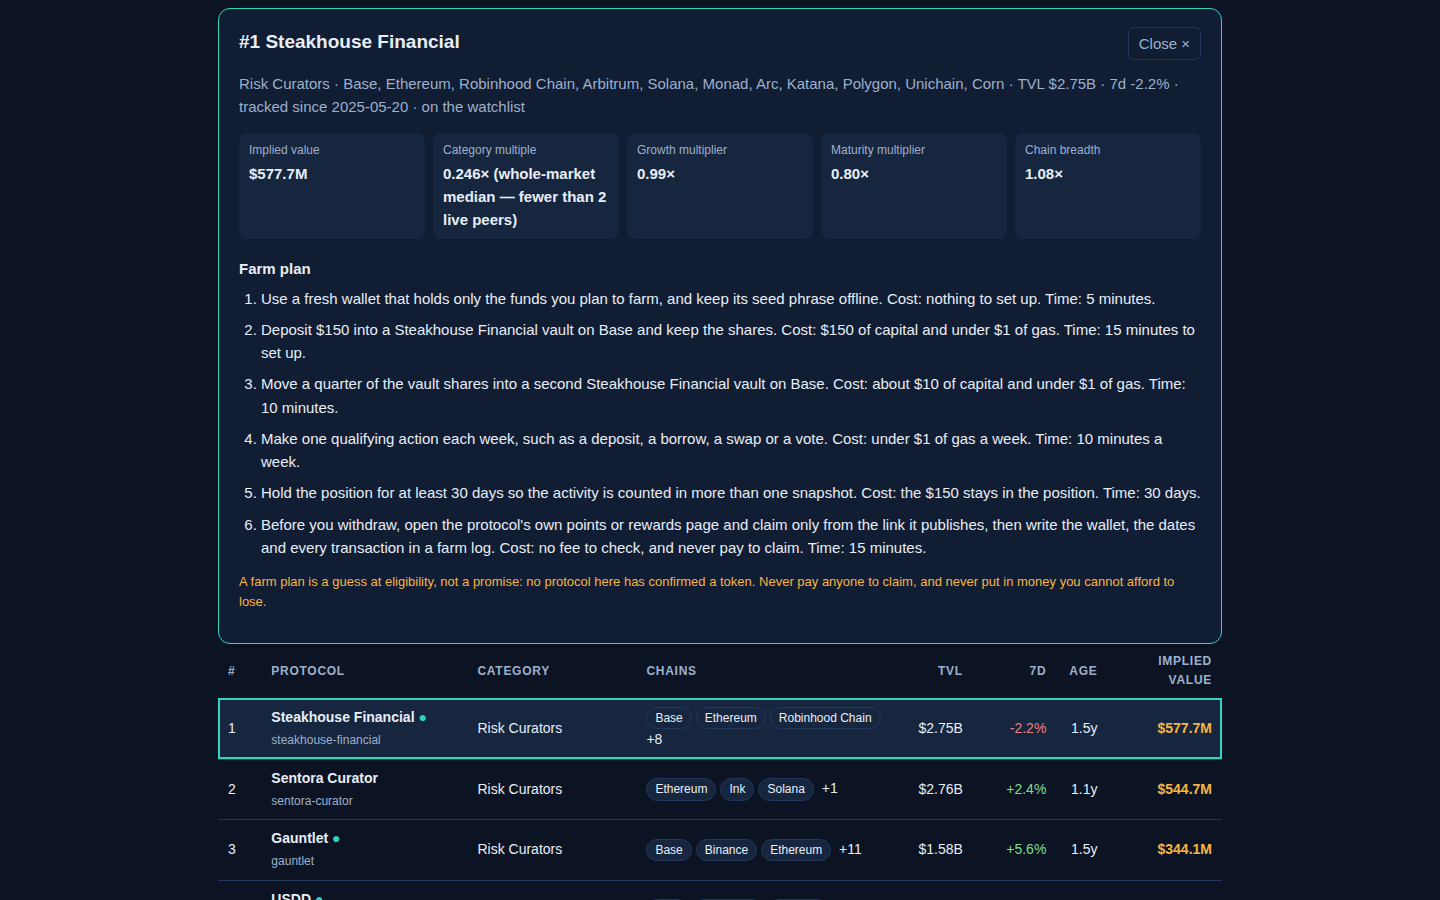
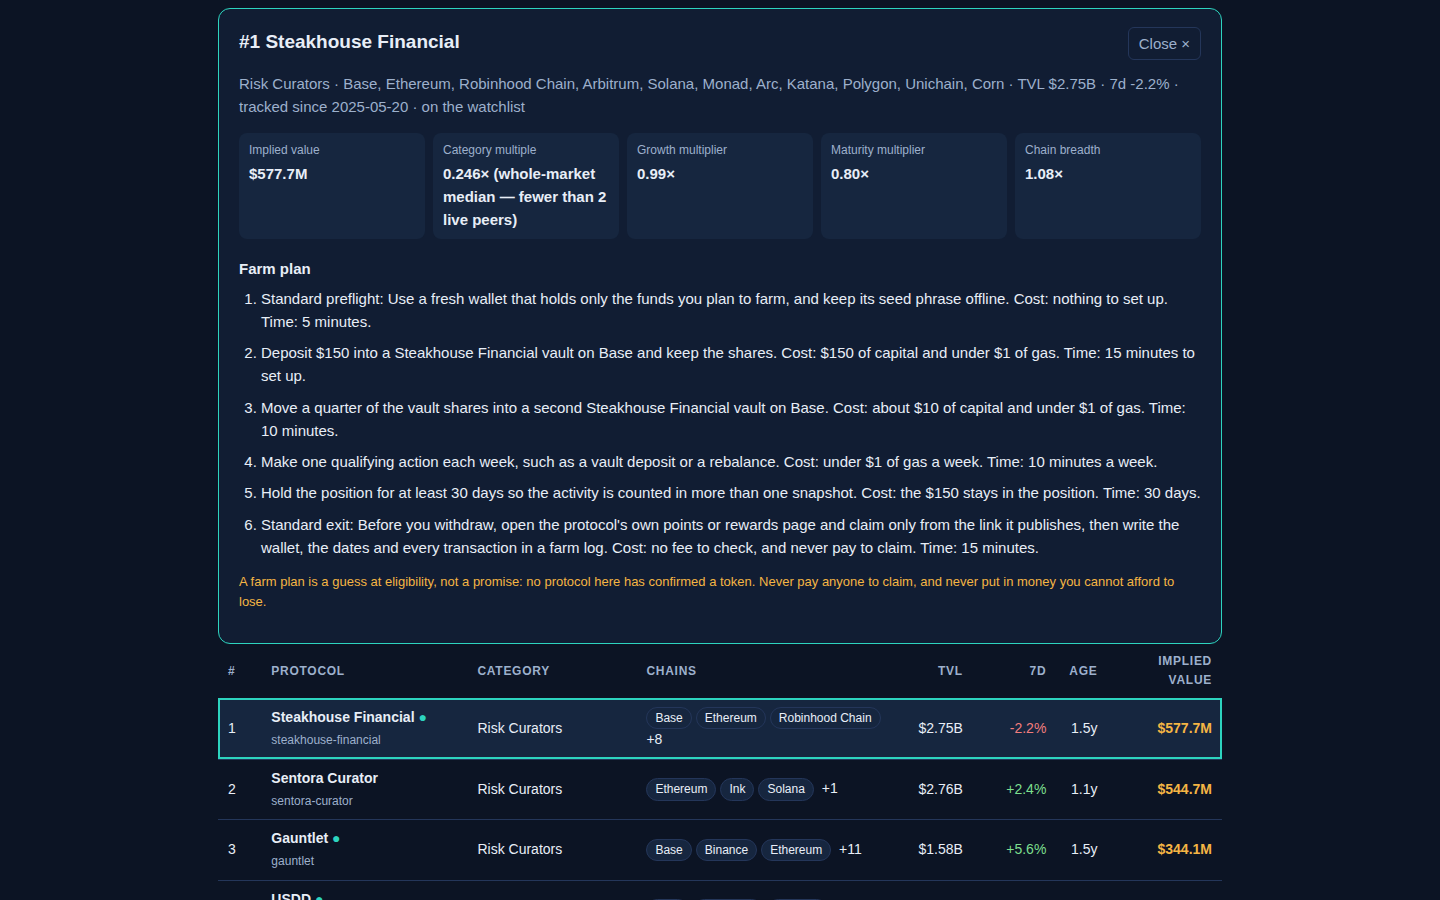
v3: disclose zero-peer fallbacks, reconcile CDP costs, de-template farm plans
- detail view labels the 18 rows in 13 zero-peer categories
  (whole-market median, no live-token peers) instead of a bare 0.246x
- calibration footnote lists the 13 zero-peer categories by name
- CDP farm plans now cost the locked collateral: step 2 says $300 of
  collateral locked (minting $150 of debt), step 5 says the $300 stays
  locked (was: $150 of capital on both)
- method text: fewer than 4 peers -> fewer than 2 peers
- farm plans: specific second actions for Farm / CeDeFi / Anchor BTC /
  OTC / Card / Decentralized BTC / Liquidity Manager (generic second
  actions 13 -> 0); weekly step now names the category's own action
  (30 distinct texts, was 2); steps 1 and 6 labelled Standard
  preflight / Standard exit so the repetition reads deliberate
- scoring unchanged (radar-3): same 197 rows, same implied values

Changed region(s): [[0.1562, 0.3111, 0.8438, 0.5289], [0.1875, 0.56, 0.8438, 0.6222]]

diff --git a/lib/model.ts b/lib/model.ts
@@ -455,7 +455,44 @@ function secondActionFor(p: SnapshotProtocol, capital: number, chain: string): s
   if (c.includes('payment')) return `Send a second, smaller payment through ${name} the following week.`;
   if (c.includes('governance')) return `Vote on a second ${name} proposal when one opens.`;
   if (c.includes('index')) return `Hold the index token through its next rebalance and check the new weights.`;
+  if (c.includes('farm')) return `Harvest the farm's rewards once and compound them back into the same farm.`;
+  if (c.includes('cedefi')) return `Check the CeDeFi vault's yield once and compound it back into the same vault.`;
+  if (c.includes('anchor')) return `Check the locked BTC receipt once and confirm the redemption terms.`;
+  if (c.includes('otc')) return `Place a second, smaller trade through the same OTC desk the following week.`;
+  if (c.includes('card')) return `Make a second purchase with the card the following week.`;
+  if (c.includes('decentralized btc')) return `Check the BTC peg once and hold through one redemption window.`;
+  if (c.includes('liquidity manager')) return `Rebalance the managed position once when the vault suggests it.`;
   return `Use the protocol's app a second time from the same wallet, a swap, a vote or a claim, so the wallet shows repeated use.`;
+}
+
+/** The weekly action a farm plan asks for, in the category's own words. */
+function weeklyActionFor(p: SnapshotProtocol): string {
+  const c = (p.category ?? '').toLowerCase();
+  if (c.includes('cdp')) return 'a mint or a collateral top-up';
+  if (c.includes('uncollateralized')) return 'a deposit or a loan-book check';
+  if (c.includes('lend') || c.includes('collateral')) return 'a deposit or a borrow';
+  if (c.includes('dex')) return 'a swap or a liquidity top-up';
+  if (c.includes('yield') || c.includes('leveraged farm')) return 'a deposit or a harvest';
+  if (c.includes('staking') || c.includes('restak')) return 'a stake or a reward claim';
+  if (c.includes('perpetual') || c.includes('derivative')) return 'a hedge or a limit order';
+  if (c.includes('prediction')) return 'a market position';
+  if (c.includes('curator') || c.includes('allocator')) return 'a vault deposit or a rebalance';
+  if (c.includes('stable')) return 'a mint or a supply';
+  if (c.includes('rwa')) return 'a mint or a redemption check';
+  if (c.includes('insurance')) return 'a cover check or an extension';
+  if (c.includes('basis')) return 'a vault top-up or a funding check';
+  if (c.includes('chain') || c === 'chain') return 'a bridge or a swap';
+  if (c.includes('payment')) return 'a payment';
+  if (c.includes('governance')) return 'a vote';
+  if (c.includes('index')) return 'a buy or a rebalance check';
+  if (c.includes('farm')) return 'a deposit or a harvest';
+  if (c.includes('cedefi')) return 'a vault deposit or a harvest';
+  if (c.includes('anchor')) return 'a lock or a receipt check';
+  if (c.includes('otc')) return 'a trade';
+  if (c.includes('card')) return 'a purchase';
+  if (c.includes('decentralized btc')) return 'a mint or a hold check';
+  if (c.includes('liquidity manager')) return 'a vault deposit or a rebalance';
+  return 'a deposit, a borrow, a swap or a vote';
 }
 
 /**
@@ -468,15 +505,16 @@ export function farmSteps(p: SnapshotProtocol, age: number | null): FarmStep[] {
   const capital = capitalFor(p);
   const hold = holdDaysFor(age);
   const gas = gasFor(chain);
+  const isCdp = (p.category ?? '').toLowerCase().includes('cdp');
   return [
     {
-      text: `Use a fresh wallet that holds only the funds you plan to farm, and keep its seed phrase offline.`,
+      text: `Standard preflight: Use a fresh wallet that holds only the funds you plan to farm, and keep its seed phrase offline.`,
       cost: 'nothing to set up',
       time: '5 minutes',
     },
     {
       text: actionFor(p, capital, chain),
-      cost: `$${capital} of capital and ${gas}`,
+      cost: isCdp ? `$${capital * 2} of collateral locked (minting $${capital} of debt) and ${gas}` : `$${capital} of capital and ${gas}`,
       time: '15 minutes to set up',
     },
     {
@@ -485,17 +523,17 @@ export function farmSteps(p: SnapshotProtocol, age: number | null): FarmStep[] {
       time: '10 minutes',
     },
     {
-      text: `Make one qualifying action each week, such as a deposit, a borrow, a swap or a vote.`,
+      text: `Make one qualifying action each week, such as ${weeklyActionFor(p)}.`,
       cost: `${gas} a week`,
       time: '10 minutes a week',
     },
     {
       text: `Hold the position for at least ${hold} days so the activity is counted in more than one snapshot.`,
-      cost: `the $${capital} stays in the position`,
+      cost: isCdp ? `the $${capital * 2} of collateral stays locked` : `the $${capital} stays in the position`,
       time: `${hold} days`,
     },
     {
-      text: `Before you withdraw, open the protocol's own points or rewards page and claim only from the link it publishes, then write the wallet, the dates and every transaction in a farm log.`,
+      text: `Standard exit: Before you withdraw, open the protocol's own points or rewards page and claim only from the link it publishes, then write the wallet, the dates and every transaction in a farm log.`,
       cost: 'no fee to check, and never pay to claim',
       time: '15 minutes',
     },

diff --git a/dashboard/app.js b/dashboard/app.js
@@ -58,9 +58,13 @@
       (c.peers < D.model.category_min_peers ? ' *' : '') + '</td><td>' + c.peers + '</td></tr>';
   }).join('') + '<tr><td>Whole market (fallback)</td><td>' + calib.global_multiple.toFixed(3) +
     '</td><td>&mdash;</td></tr>';
+  var zeroPeerCats = [...new Set(rows.map(function (r) { return r.category; }).filter(function (c) {
+    return c && !calib.categories.some(function (x) { return x.category === c; });
+  }))].sort();
   var note = document.createElement('p');
   note.className = 'fine';
-  note.textContent = '* Fewer than ' + D.model.category_min_peers + ' live-token peers: the whole-market median is used instead. An arrow shows a measured median clamped to the 0.05–1.00 band.';
+  note.textContent = '* Fewer than ' + D.model.category_min_peers + ' live-token peers: the whole-market median is used instead. An arrow shows a measured median clamped to the 0.05–1.00 band.' +
+    (zeroPeerCats.length > 0 ? ' ' + zeroPeerCats.length + ' categories have no live-token peers at all (' + zeroPeerCats.join(', ') + ') and use the whole-market median too.' : '');
   $('calibrationBox').appendChild(note);
 
   // Filter controls.
@@ -130,8 +134,9 @@
     selected = slug;
     var breadth = 1 + Math.min(Math.max(r.chains.length - 1, 0), 4) * 0.02;
     var cal = calib.categories.filter(function (c) { return c.category === r.category; })[0];
-    var multNote = (cal && cal.peers < D.model.category_min_peers)
-      ? ' (whole-market median — fewer than ' + D.model.category_min_peers + ' live peers)' : '';
+    var multNote = '';
+    if (!cal) multNote = ' (whole-market median — no live-token peers in this category)';
+    else if (cal.peers < D.model.category_min_peers) multNote = ' (whole-market median — fewer than ' + D.model.category_min_peers + ' live peers)';
     $('dName').textContent = '#' + r.rank + ' ' + r.name;
     $('dMeta').textContent = (r.category || 'Uncategorised') + ' · ' + r.chains.join(', ') +
       ' · TVL ' + money(r.tvl_usd) + ' · 7d ' + pct(r.change_7d) +

diff --git a/dashboard/index.html b/dashboard/index.html
@@ -26,7 +26,7 @@
     <h2>How the value is worked out</h2>
     <p><strong>Implied value = TVL &times; category multiple &times; growth &times; maturity &times; breadth.</strong>
     The category multiple is the median market-cap / TVL of the live-token protocols in the
-    same category (whole-market median when a category has fewer than 4 peers). Growth is the
+    same category (whole-market median when a category has fewer than 2 peers). Growth is the
     7-day TVL change, clamped to &minus;60%…+120% and weighted by &frac12;. Maturity rises from
     0.60 to 1.00 over a protocol's first three years with no token. Breadth adds 2% per extra
     chain, up to 8%. A protocol whose token already trades is never ranked: the Live token
